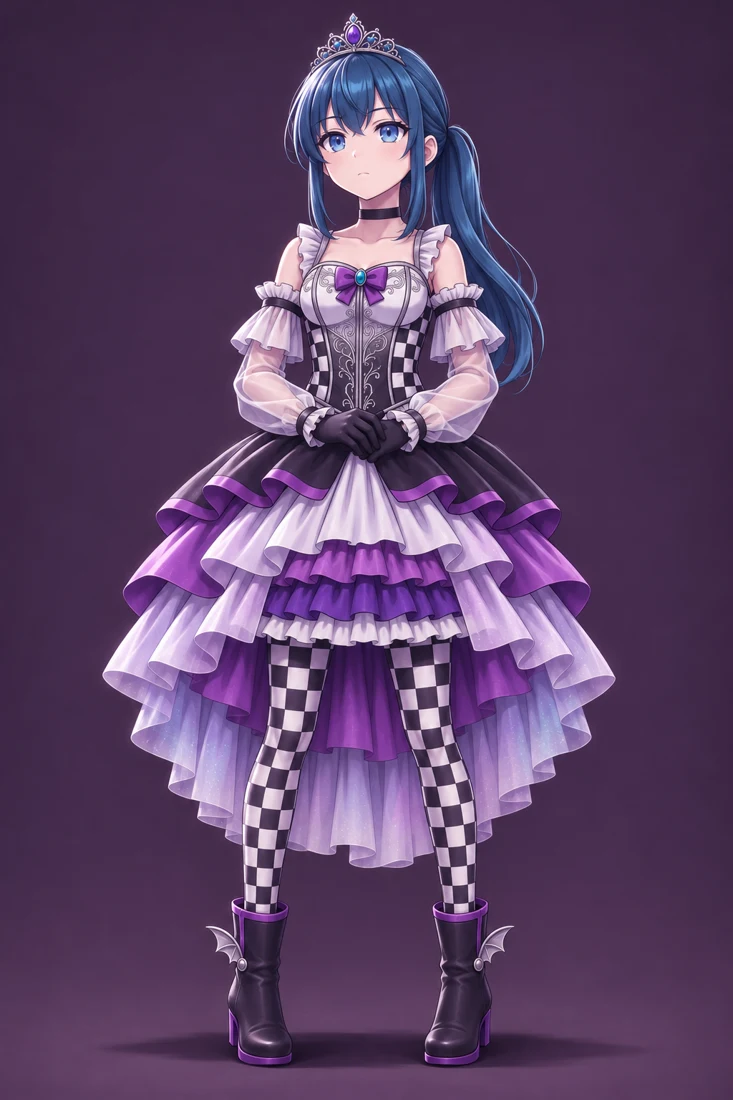
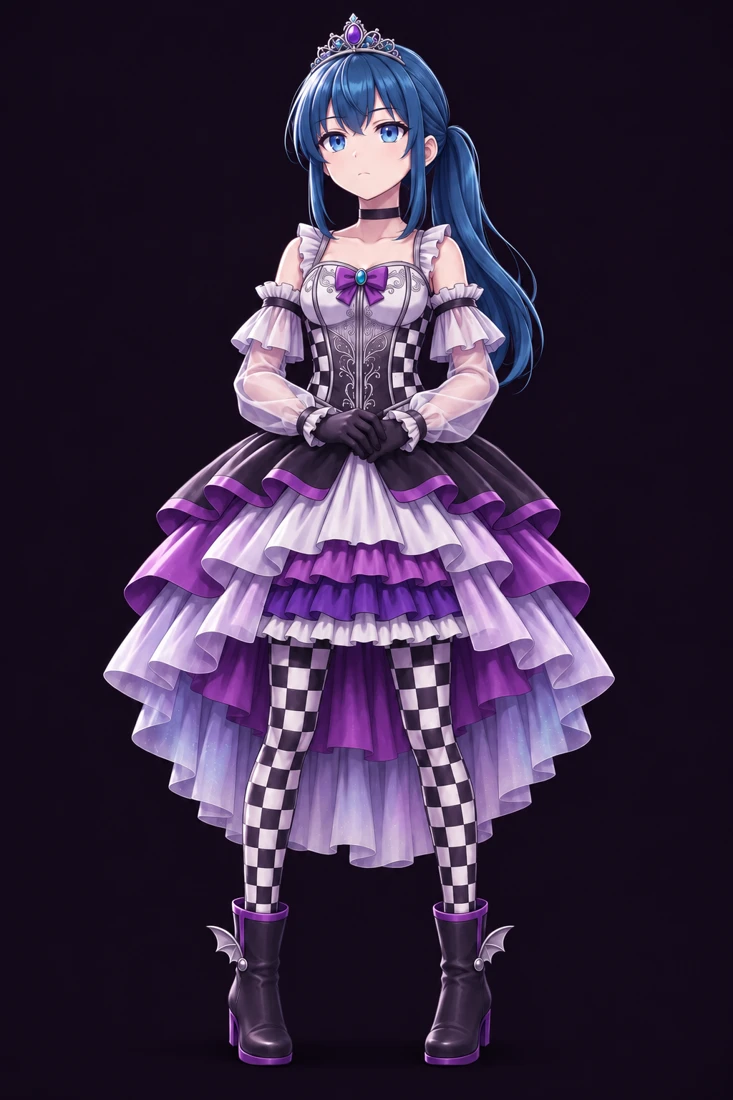
Match four FunkFanfare portrait backgrounds to existing dark portraits

diff --git a/index.html b/index.html
@@ -1058,22 +1058,22 @@ let state=null,team=['kayo','machi','natsume'],leader='kayo',firstMode='random',
 let saved=null;try{saved=JSON.parse(localStorage.getItem(SAVE)||'null');if(saved?.version!==1||saved?.winner!==null)saved=null;}catch{}
 // Local artwork: six members, eighteen songs and ten events.
 const ARTWORK = {
-"idol-kazuna":"assets/art/idol-kazuna.webp",
+"idol-kazuna":"assets/art/idol-kazuna.webp?v=20261127-dark",
 "song-kazuna-1":"assets/art/song-kazuna-1.webp",
 "song-kazuna-2":"assets/art/song-kazuna-2.webp",
 "song-kazuna-3":"assets/art/song-kazuna-3.webp",
 "event-kazuna":"assets/art/event-kazuna.webp",
-"idol-mio":"assets/art/idol-mio.webp",
+"idol-mio":"assets/art/idol-mio.webp?v=20261127-dark",
 "song-mio-1":"assets/art/song-mio-1.webp",
 "song-mio-2":"assets/art/song-mio-2.webp",
 "song-mio-3":"assets/art/song-mio-3.webp",
 "event-mio":"assets/art/event-mio.webp",
-"idol-yuu":"assets/art/idol-yuu.webp",
+"idol-yuu":"assets/art/idol-yuu.webp?v=20261127-dark",
 "song-yuu-1":"assets/art/song-yuu-1.webp",
 "song-yuu-2":"assets/art/song-yuu-2.webp",
 "song-yuu-3":"assets/art/song-yuu-3.webp",
 "event-yuu":"assets/art/event-yuu.webp",
-"idol-chris":"assets/art/idol-chris.webp",
+"idol-chris":"assets/art/idol-chris.webp?v=20261127-dark",
 "song-chris-1":"assets/art/song-chris-1.webp",
 "song-chris-2":"assets/art/song-chris-2.webp",
 "song-chris-3":"assets/art/song-chris-3.webp",
